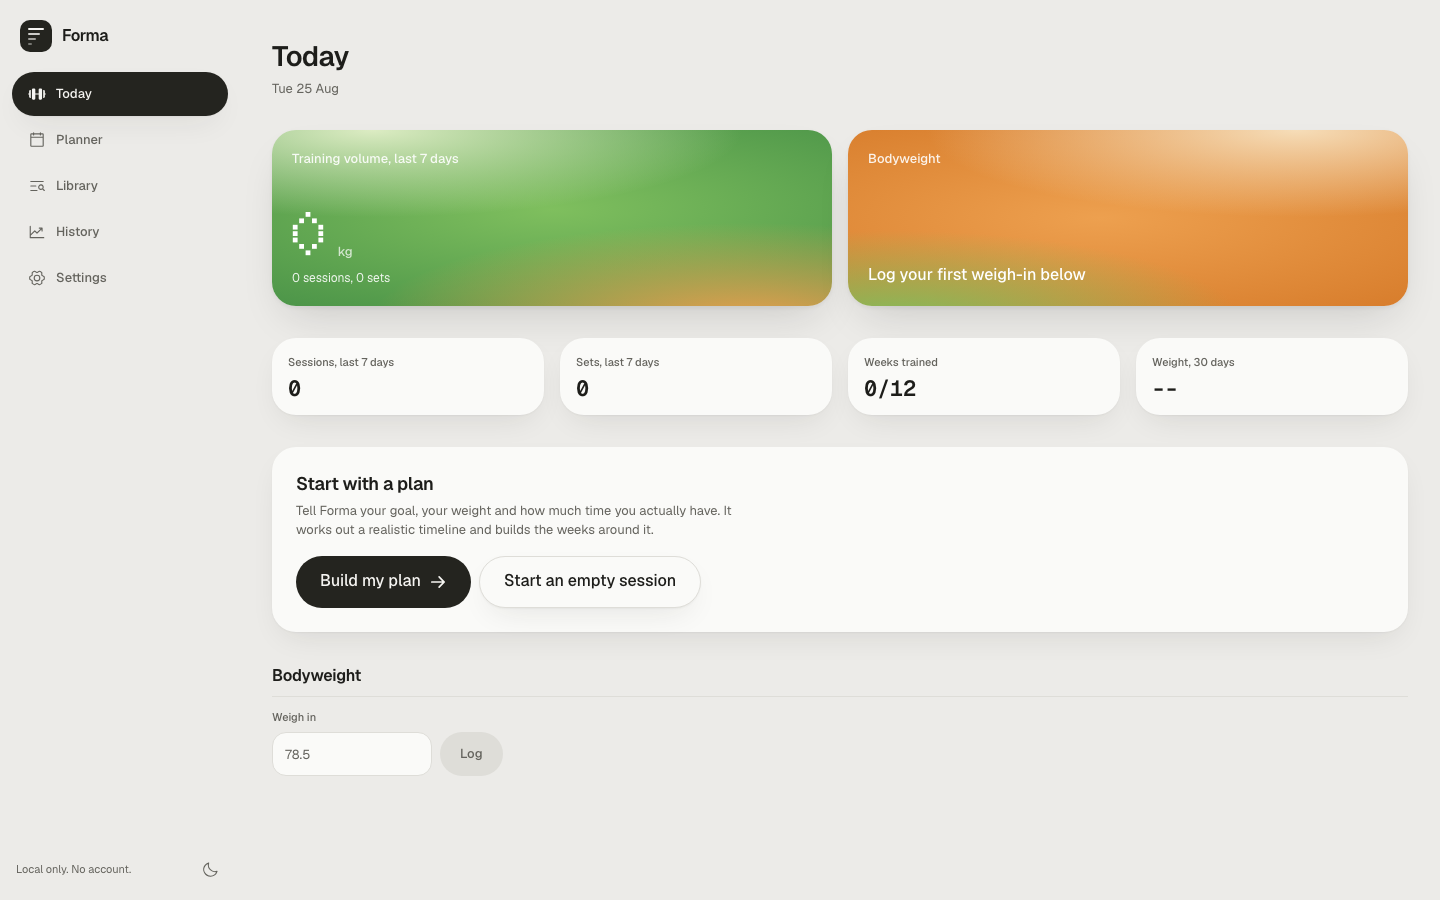
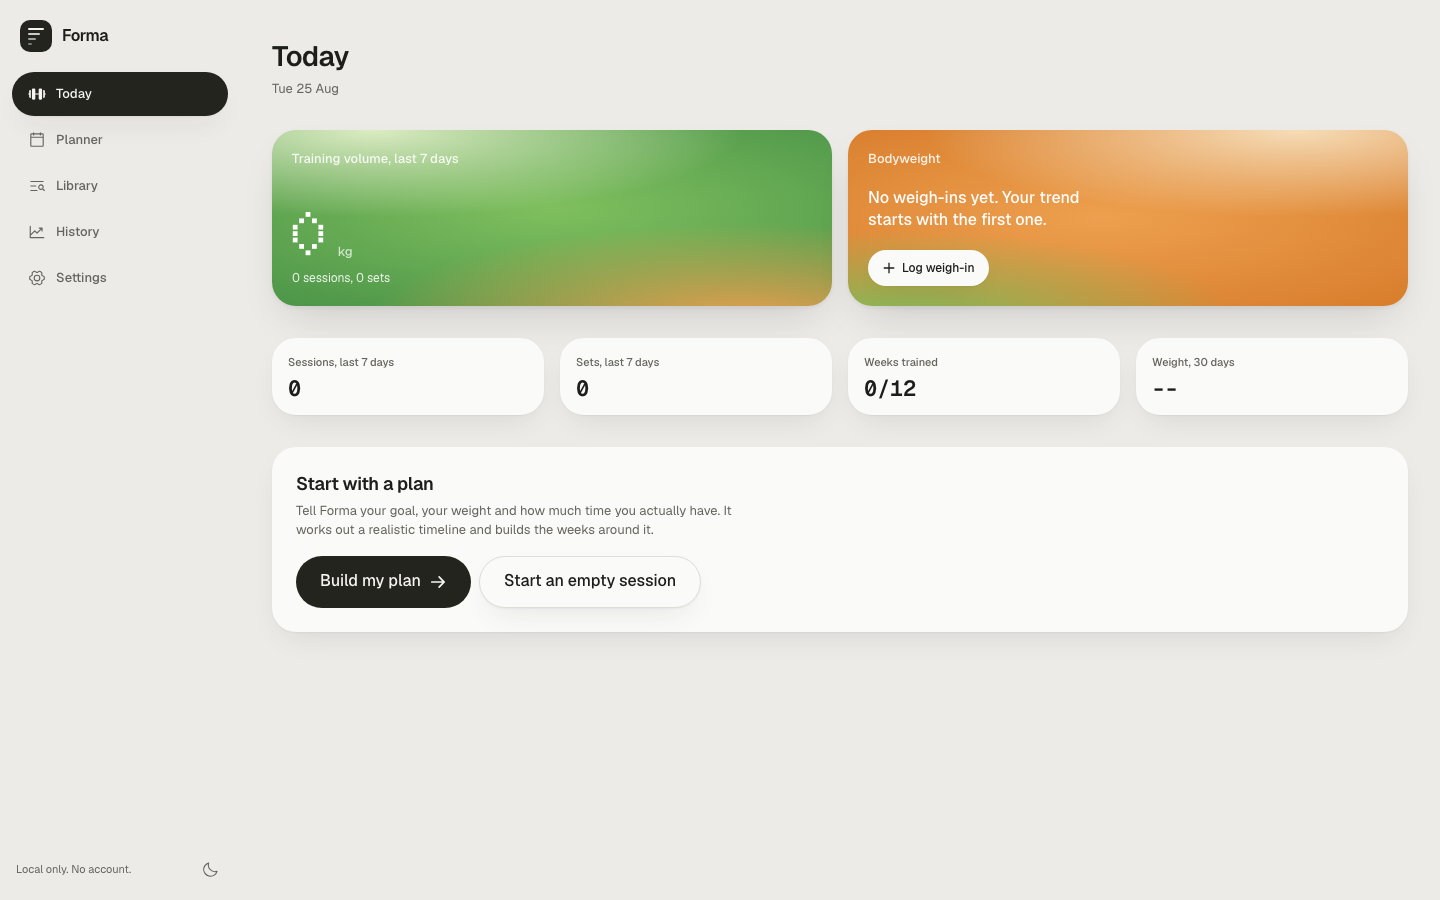
fix(today): the weigh-in action lives on the bodyweight tile, not in an orphan
The Today page displayed bodyweight in the orange hero tile while the action to
log one sat in a disconnected "Bodyweight" section at the bottom of the page,
whose empty-state copy on the tile even pointed "below" at it. Information and
its action were split across the page.

- The orphan section is gone. The tile's foot carries a "Log weigh-in" pill
  next to the trend, opening a compact dialog built on the app's NumberField:
  0.1 kg steppers, prefilled with the last known weight, derived in render and
  reset on close rather than through an effect.
- The tile's initial state is now composed: with no weigh-ins it says the trend
  starts with the first one and offers the action right there. With one dated
  today it reads "Logged today".

Verified live in both states: dialog opens prefilled from the tile, saving
updates the tile in place, and the empty tile presents the action. tsc, oxlint,
42 tests, build and the audit walk pass.

Changed region(s): [[0.5938, 0.28, 0.75, 0.3422], [0.5938, 0.2178, 0.75, 0.2489], [0.1875, 0.7467, 0.25, 0.8089]]

diff --git a/src/routes/Today.tsx b/src/routes/Today.tsx
@@ -21,12 +21,18 @@ import { Stat } from '../ui/Stat'
 import { AuroraTile } from '../ui/AuroraTile'
 import { TrendPill } from '../ui/TrendPill'
 import { SparkArea } from '../ui/SparkArea'
-import { Input } from '../ui/Input'
 import { NumberField } from '../ui/NumberField'
 import { ExerciseThumb } from '../ui/ExerciseThumb'
 import { PageHeader, Section } from '../ui/PageHeader'
 import { EmptyState } from '../ui/EmptyState'
 import { ExercisePicker } from '@/components/exercise-picker'
+import {
+  Dialog,
+  DialogContent,
+  DialogHeader,
+  DialogTitle,
+  DialogDescription,
+} from '@/components/ui/dialog'
 import { useElapsedSeconds } from '@/hooks/use-elapsed'
 import {
   DAY_FULL_LABELS,
@@ -146,9 +152,8 @@ function TodayOverview() {
   const bodyweight = useGym((s) => s.bodyweight)
   const startWorkout = useGym((s) => s.startWorkout)
   const startWorkoutFromPlan = useGym((s) => s.startWorkoutFromPlan)
-  const logBodyweight = useGym((s) => s.logBodyweight)
 
-  const [kg, setKg] = useState('')
+  const [weighInOpen, setWeighInOpen] = useState(false)
   const day = todayDayOfWeek()
 
   const scheduled = useMemo(
@@ -222,18 +227,30 @@ function TodayOverview() {
             lastWeighIn
               ? targetKg !== undefined
                 ? `Target ${targetKg} kg`
-                : `Logged ${formatLongDate(lastWeighIn.date)}`
-              : 'Log your first weigh-in below'
+                : lastWeighIn.date === todayIso()
+                  ? 'Logged today'
+                  : `Logged ${formatLongDate(lastWeighIn.date)}`
+              : 'No weigh-ins yet. Your trend starts with the first one.'
           }
           foot={
-            weightDelta !== null && weightDelta !== 0 ? (
-              <TrendPill
-                delta={weightDelta}
-                unit="kg"
-                window="last 30 days"
-                positiveIsGood={losingIsGood === undefined ? undefined : !losingIsGood}
-              />
-            ) : undefined
+            <>
+              {weightDelta !== null && weightDelta !== 0 && (
+                <TrendPill
+                  delta={weightDelta}
+                  unit="kg"
+                  window="last 30 days"
+                  positiveIsGood={losingIsGood === undefined ? undefined : !losingIsGood}
+                />
+              )}
+              <button
+                type="button"
+                onClick={() => setWeighInOpen(true)}
+                className="inline-flex h-9 items-center gap-1.5 rounded-full bg-surface px-3.5 text-xs font-medium text-ink shadow-[var(--shadow-panel)] transition-transform duration-150 active:translate-y-px"
+              >
+                <Plus size={14} weight="bold" />
+                Log weigh-in
+              </button>
+            </>
           }
         />
       </div>
@@ -369,32 +386,79 @@ function TodayOverview() {
         </Panel>
       )}
 
-      <Section title="Bodyweight">
+      <RecentSessions />
+
+      <WeighInDialog
+        open={weighInOpen}
+        onOpenChange={setWeighInOpen}
+        lastKg={lastWeighIn?.kg}
+      />
+    </div>
+  )
+}
+
+function WeighInDialog({
+  open,
+  onOpenChange,
+  lastKg,
+}: {
+  open: boolean
+  onOpenChange: (open: boolean) => void
+  lastKg?: number
+}) {
+  const logBodyweight = useGym((s) => s.logBodyweight)
+
+  /* Untouched means "start from the last known weight": most weigh-ins are a
+     small nudge away from the previous one. Reset on close, not via effects. */
+  const [draft, setDraft] = useState<string | null>(null)
+  const kg = draft ?? (lastKg !== undefined ? String(lastKg) : '')
+  const value = Number(kg)
+
+  const close = (next: boolean) => {
+    if (!next) setDraft(null)
+    onOpenChange(next)
+  }
+
+  return (
+    <Dialog open={open} onOpenChange={close}>
+      <DialogContent className="sm:max-w-sm">
+        <DialogHeader>
+          <DialogTitle>Log weigh-in</DialogTitle>
+          <DialogDescription>
+            Dated today. It feeds the trend on this tile and the History chart.
+          </DialogDescription>
+        </DialogHeader>
         <form
           onSubmit={(e) => {
             e.preventDefault()
-            const v = Number(kg)
-            if (v > 0) logBodyweight(v)
-            setKg('')
+            if (value > 0) {
+              logBodyweight(value)
+              close(false)
+            }
           }}
-          className="flex items-end gap-2"
+          className="flex flex-col gap-4"
         >
-          <Input
-            label="Weigh in"
+          <NumberField
+            label="Bodyweight"
+            unit="kg"
             value={kg}
-            onChange={(e) => setKg(e.target.value)}
-            inputMode="decimal"
-            placeholder={lastWeighIn ? String(lastWeighIn.kg) : '78.5'}
-            className="max-w-40"
+            onValueChange={setDraft}
+            step={0.1}
+            decimals={1}
+            min={20}
+            max={400}
           />
-          <Button type="submit" disabled={!(Number(kg) > 0)}>
-            Log
-          </Button>
+          <div className="flex justify-end gap-2">
+            <Button variant="ghost" onClick={() => close(false)}>
+              Cancel
+            </Button>
+            <Button type="submit" disabled={!(value > 0)}>
+              Save
+            </Button>
+          </div>
         </form>
-      </Section>
-
-      <RecentSessions />
-    </div>
+      </DialogContent>
+    </Dialog>
   )
 }
 
